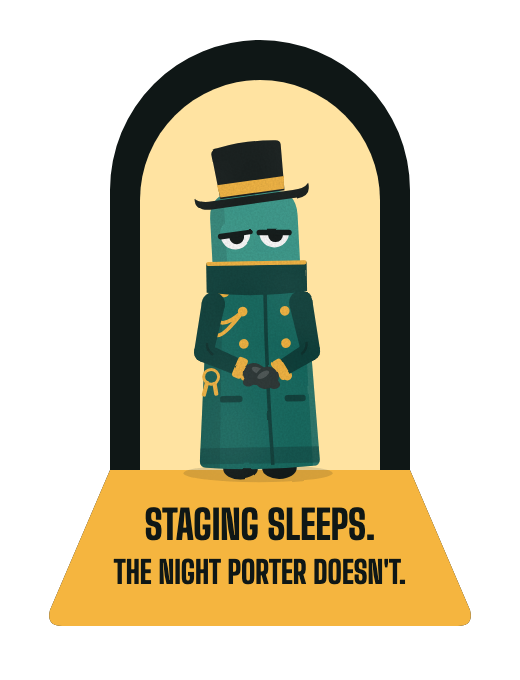
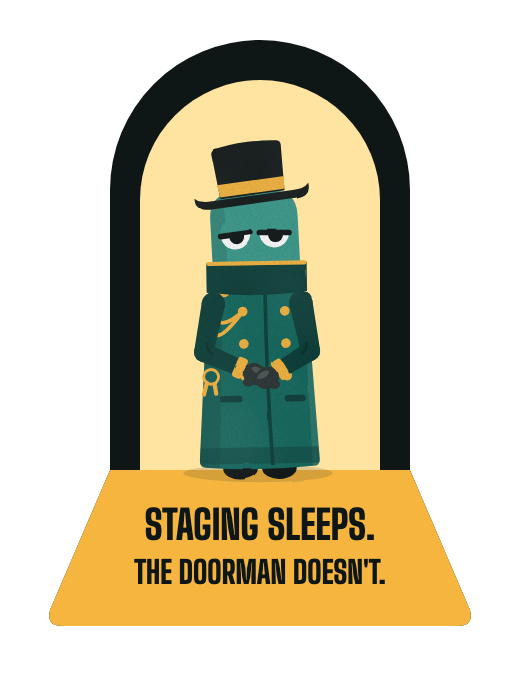
Rename the night porter to the doorman (decision 0013)
The character is now the doorman, Napwake's doorman, and one rule keeps
every caption true: when copy names him, he only holds the door or wakes
a workload on the first request; everything else Napwake does is said
as "Napwake ...", even when he's pictured.

- guidelines/night-porter.md is now guidelines/doorman.md, rewritten by
  that rule; the pose captions credit Napwake for pausing, the forecast,
  scan and the activity clock.
- illustrations/poses/porter-*.svg are now doorman-*.svg (same drawings).
- Tokens porter-* are now doorman-* in tokens.json and tokens.css.
- The sticker reads "Staging sleeps. The doorman doesn't."
- The credit line is "Doorman illustrations by Napwake, CC BY 4.0".

Changed region(s): [[0.2154, 0.8029, 0.7692, 0.8647]]

diff --git a/tokens/tokens.css b/tokens/tokens.css
@@ -49,17 +49,17 @@
   --scene-green-glow: #7fd3a0;
   --scene-label: #5e6764;
   --note-pin: #d9443a;
-  --porter-coat: var(--coat);
-  --porter-coat-deep: var(--coat-deep);
-  --porter-face: var(--face);
-  --porter-brass: var(--lamp);
-  --porter-hat: var(--hat);
-  --porter-mitten: var(--mitten);
-  --porter-mitten-line: var(--night);
-  --porter-shoe: var(--night);
-  --porter-shoe-rim: var(--night);
-  --porter-eye: #ffffff;
-  --porter-night: var(--night);
+  --doorman-coat: var(--coat);
+  --doorman-coat-deep: var(--coat-deep);
+  --doorman-face: var(--face);
+  --doorman-brass: var(--lamp);
+  --doorman-hat: var(--hat);
+  --doorman-mitten: var(--mitten);
+  --doorman-mitten-line: var(--night);
+  --doorman-shoe: var(--night);
+  --doorman-shoe-rim: var(--night);
+  --doorman-eye: #ffffff;
+  --doorman-night: var(--night);
   --prop-clipboard: #8a5a2b;
   --prop-plate-edge: #b9b4a7;
   --prop-switch: #9c978a;
@@ -141,14 +141,14 @@
     --scene-green: #4cc284;
     --scene-green-glow: #4cc284;
     --scene-label: #8c9895;
-    --porter-coat: #1e7a6e;
-    --porter-coat-deep: #12524b;
-    --porter-face: #45a898;
-    --porter-hat: #2b3735;
-    --porter-mitten: #3e4e4c;
-    --porter-mitten-line: #7a918d;
-    --porter-shoe: #2b4743;
-    --porter-shoe-rim: #4c7069;
+    --doorman-coat: #1e7a6e;
+    --doorman-coat-deep: #12524b;
+    --doorman-face: #45a898;
+    --doorman-hat: #2b3735;
+    --doorman-mitten: #3e4e4c;
+    --doorman-mitten-line: #7a918d;
+    --doorman-shoe: #2b4743;
+    --doorman-shoe-rim: #4c7069;
     --launch-floor: var(--scene-floor);
     --launch-frame: var(--scene-frame);
     --hanger-edge: #24323a;
@@ -189,14 +189,14 @@
   --scene-green: #4cc284;
   --scene-green-glow: #4cc284;
   --scene-label: #8c9895;
-  --porter-coat: #1e7a6e;
-  --porter-coat-deep: #12524b;
-  --porter-face: #45a898;
-  --porter-hat: #2b3735;
-  --porter-mitten: #3e4e4c;
-  --porter-mitten-line: #7a918d;
-  --porter-shoe: #2b4743;
-  --porter-shoe-rim: #4c7069;
+  --doorman-coat: #1e7a6e;
+  --doorman-coat-deep: #12524b;
+  --doorman-face: #45a898;
+  --doorman-hat: #2b3735;
+  --doorman-mitten: #3e4e4c;
+  --doorman-mitten-line: #7a918d;
+  --doorman-shoe: #2b4743;
+  --doorman-shoe-rim: #4c7069;
   --launch-floor: var(--scene-floor);
   --launch-frame: var(--scene-frame);
   --hanger-edge: #24323a;

diff --git a/guidelines/README.md b/guidelines/README.md
@@ -10,12 +10,12 @@ It's for platform and infrastructure engineers who run non-production environmen
 
 ## The idea
 
-Napwake is **the night porter** of your non-production cluster: he lets the rooms nobody's using sleep, holds the door for the first request, and wakes the right room. Every room is an arched door. Shut and dark is asleep; ajar with amber light is waking up; open and lit green is awake. Anyone reads it at a glance, Kubernetes or not, so every picture carries one idea in plain words.
+Napwake lets the rooms nobody's using in your non-production cluster sleep. When the first request knocks, **the doorman** holds the door and wakes the right room. Every room is an arched door. Shut and dark is asleep; ajar with amber light is waking up; open and lit green is awake. Anyone reads it at a glance, Kubernetes or not, so every picture carries one idea in plain words.
 
 Before you make anything, read the section for it:
 
 - **[The logo](logo.md):** the one logo, its approved versions, clear space, minimum sizes, misuses.
-- **[The night porter](night-porter.md):** how he's built, his eleven poses and when to use each, what he does and never does, the finish.
+- **[The doorman](doorman.md):** who he is and the one rule for every caption, how he's built, his eleven poses and when to use each, what he never does, the finish.
 - **[Using the brand](using-the-brand.md):** talks, posts, slides and community projects.
 
 ## Voice
@@ -37,7 +37,7 @@ Everything Napwake says follows six rules.
 
 > Your first request waits at the door while the workload starts. Usually that's a slow response, not an error; the docs say when it isn't. (README)
 
-> Staging sleeps. The night porter doesn't. (the sticker: true of Napwake, whose operator and doorman keep running while workloads are paused)
+> Staging sleeps. The doorman doesn't. (the sticker: literally true, since the doorman keeps running while workloads are paused)
 
 **Words.** Say "pause idle" and "sleep" and "wake": the words users use. Don't call Napwake "scale to zero" or "hibernate"; in Kubernetes those mean other things. Write "Napwake" in text, `napwake` in commands; the wordmark is lowercase. Headings in sentence case. Dates absolute.
 
@@ -46,19 +46,19 @@ Everything Napwake says follows six rules.
 | State | In pictures and pages anyone reads | In the CLI and reference docs | Its door |
 |---|---|---|---|
 | asleep | asleep | paused | shut and dark, a slate leaf, a brass knob |
-| waking | waking up | resuming | ajar, amber room light and a wedge on the floor, the porter's hand on it |
+| waking | waking up | resuming | ajar, amber room light and a wedge on the floor, the doorman's hand on it |
 | awake | awake | running | wide open, the room lit green, a green lamp over it |
 | error | needs you | needs attention | shut, a note pinned on it |
 
 - Use the plain words in scenes, captions, the waking page, launch posts and swag.
 - Use the product words in `kubectl napwake` output, reference docs, API fields and anything a user types or searches for.
 - Where both appear, plain first: "Asleep · paused".
-- The character is **the night porter**. The doorman is a real Napwake component, the Service-level proxy that holds requests; never call the porter the doorman, and never say he is a Deployment.
+- The character is **the doorman**, and he is Napwake's doorman: the real component, a Service-level proxy, that holds the first request to a paused workload, wakes it, and shows browsers the waking page until it's Ready. When copy names him, he does only that. Everything else Napwake does is said as "Napwake …", even when he's pictured: "Napwake turns off the lights in empty rooms".
 
 ## Doors as states
 
 - Every room is an arched door: round top, flat bottom, the same arch as the wordmark's counters.
-- Asleep: shut, slate (`glyph-slate`, `scene-leaf`). Waking up: ajar, the room in Lamp light (`scene-room-amber`), an amber wedge on the floor, and the only door with the porter's hand on it. Awake: wide open, the room lit green (`scene-room-green`), a green lamp over the door (`scene-green`). Needs you: shut, a note pinned on it (`note-pin`); a note, never an alarm bell, and it says what to fix.
+- Asleep: shut, slate (`glyph-slate`, `scene-leaf`). Waking up: ajar, the room in Lamp light (`scene-room-amber`), an amber wedge on the floor, and the only door with the doorman's hand on it. Awake: wide open, the room lit green (`scene-room-green`), a green lamp over the door (`scene-green`). Needs you: shut, a note pinned on it (`note-pin`); a note, never an alarm bell, and it says what to fix.
 - Use the door glyphs in [`../illustrations/doors/`](../illustrations/doors/) (`door-<state>.svg` on light, `door-<state>-dark.svg` on dark).
 - Always put the state's word beside its door. Colour is never the only signal: waking's amber outline is 1.71:1 on Paper, and awake and error are equally light.
 - His face follows the rooms he minds: resting his eyes when every room is asleep, heavy lids on a quiet night, on duty by default, wide awake only when something needs you.
@@ -66,14 +66,14 @@ Everything Napwake says follows six rules.
 
 ## Colour
 
-A night porter's coat, the light from a door, and the dark corridor.
+A doorman's coat, the light from a door, and the dark corridor.
 
-- **Coat** `coat` #14695F is the brand's teal. **Lamp** `lamp` #F5B53F is the warm light. **Night** `night` #0F1716 and **Paper** `paper` #F8F8F5 are dark and light. **Coat deep** `coat-deep`, **Face** `face`, **Hat** `hat` and **Mitten** `mitten` belong to the porter.
+- **Coat** `coat` #14695F is the brand's teal. **Lamp** `lamp` #F5B53F is the warm light. **Night** `night` #0F1716 and **Paper** `paper` #F8F8F5 are dark and light. **Coat deep** `coat-deep`, **Face** `face`, **Hat** `hat` and **Mitten** `mitten` belong to the doorman.
 - Pages: `bg` for the page, `surface` for raised cards, `text` for copy, `muted` for secondary text, `line` for hairlines. Set body copy in `text` on `bg` or `surface`.
 - Actions: `action` (Coat on light, Lamp on dark) for links, buttons and the focus ring. Text on an action fill is `on-action` (Paper on Coat, Night on Lamp), never plain white.
 - Lamp is a fill on light, never text (1.71:1 on Paper). Amber text on light is `accent-text` #8A5A00.
 - State words take `asleep`, `waking`, `awake` and `error`. Use them for states only, never for decoration.
-- The porter has his own tokens (`porter-*`), lighter in dark so he reads on Night. Scenes use `scene-*`; door glyphs use `glyph-*`.
+- The doorman has his own tokens (`doorman-*`), lighter in dark so he reads on Night. Scenes use `scene-*`; door glyphs use `glyph-*`.
 - Every token in [`../tokens/tokens.json`](../tokens/tokens.json) has a note that says where it goes and its contrast on the grounds it sits on; [`tokens.css`](../tokens/tokens.css) has them as CSS variables, light and dark. Three pairs miss 4.5:1 and are flagged in their notes: `faint` on light, state words on the light scene floor, and two small labels on printed swag.
 - No colours outside `tokens.json`. Never a gradient, and never purple or blue-to-purple.
 
@@ -94,10 +94,10 @@ A night porter's coat, the light from a door, and the dark corridor.
 
 ## Illustration
 
-- Corridors, lobbies and doorways at night: the porter, doors, a floor. Props only when the job needs them: a list, a clipboard, a switch, a watch, a note.
+- Corridors, lobbies and doorways at night: the doorman, doors, a floor. Props only when the job needs them: a list, a clipboard, a switch, a watch, a note.
 - One idea per drawing, captioned in plain words. One true joke at most.
 - Light comes from doors. The far side of the coat falls into shade; his shadow falls away from the door.
-- Illustrations get the print finish: a slight wobble on every edge and a grain inside the fills ([night-porter.md](night-porter.md#the-finish) has the filter). Never on the logo, the favicon, door glyphs or UI icons.
+- Illustrations get the print finish: a slight wobble on every edge and a grain inside the fills ([doorman.md](doorman.md#the-finish) has the filter). Never on the logo, the favicon, door glyphs or UI icons.
 - No coins, bins, clouds, moons or Zzz, and nothing being thrown out: Napwake never deletes anything.
 - Illustrations go on pages, cards, empty states and release notes, never inside documentation steps.
 
@@ -122,13 +122,13 @@ A night porter's coat, the light from a door, and the dark corridor.
 - Never colour alone: every state carries its word and its door's shape, and the terminal adds a glyph and bold.
 - Keyboard focus is `focus-ring`: a 2 px gap in the page colour, then 2 px of `action` (6.14:1 on light, 10.02:1 on dark).
 - Every surface ships light and dark (logos, glyphs, icons, cards, the docs, the waking page) and follows `prefers-color-scheme`.
-- Alt text says what the picture shows, in plain words: "The night porter holds the door of a waking room; the rooms on either side are asleep or awake."
+- Alt text says what the picture shows, in plain words, by the doorman's rule: "The doorman holds the door of a waking room; the rooms on either side are asleep or awake." Any other job is Napwake's, even with him in the picture: "Napwake turns off the lights in staging, which nobody has used for an hour."
 
 ## The files
 
 | Where | What | Licence |
 |---|---|---|
 | [`../logo/`](../logo/) | The logo, wordmark, mark, avatar and favicons | [TRADEMARKS.md](../TRADEMARKS.md) |
-| [`../illustrations/`](../illustrations/) | The porter's poses, door glyphs, UI icons, scenes and a sticker | [CC BY 4.0](../illustrations/LICENSE) |
+| [`../illustrations/`](../illustrations/) | The doorman's poses, door glyphs, UI icons, scenes and a sticker | [CC BY 4.0](../illustrations/LICENSE) |
 | [`../tokens/`](../tokens/) | Every colour, type style, spacing step, radius, shadow and timing, as JSON and as CSS | CC BY 4.0, like the illustrations |
 | [`logo-rules/`](logo-rules/) | Clear space, construction and misuse drawings | [TRADEMARKS.md](../TRADEMARKS.md) |

diff --git a/guidelines/doorman.md b/guidelines/doorman.md
@@ -1,0 +1,102 @@
+# The doorman
+
+He is **Napwake's doorman**. In the product, the doorman is a real component: it holds the first request to a paused workload, wakes the workload, and shows browsers the waking page until it's Ready. The character is that doorman, drawn as a person. Copy calls him **the doorman**. He has no name, like the Go gopher.
+
+**One rule keeps every caption true: when copy names the doorman, he only holds the door or wakes a workload on the first request.** Everything else Napwake does (pausing, the forecast, scan, dry-run, the activity clock, conditions) is said as "Napwake …", even when he's pictured: "Napwake turns off the lights in empty rooms", never "the doorman turns off the lights". He is never another component.
+
+## Personality: dependable, dry, unflappable
+
+- **Dependable.** Always at the door. Not a guard: he never blocks, inspects or arrests anyone, and never stands in front of a door that isn't his.
+- **Dry.** Half-lidded, one-line answers. Not cute: no mouth, no blush, no sparkles, no baby proportions.
+- **Unflappable.** He's seen every night shift. Not lazy: he rests his eyes upright at his post, never asleep on the floor.
+- **Not magic.** No wands, no sparkles, no white gloves.
+
+## Every drawing is one thing Napwake does
+
+Every drawing shows one thing Napwake really does. Only the door is the doorman's job, so only its caption names him; the others say what Napwake does.
+
+| The drawing | Caption it as | What Napwake does |
+|---|---|---|
+| Holding a door ajar, amber light on the floor | "The doorman holds the door while staging wakes." | Wake on request: the doorman holds the request, or shows browsers the waking page, until the workload is Ready. |
+| A hand on the light switch of an empty room | "Napwake turns off the lights in empty rooms." | Pause: after `idleAfter` with no activity, the workload is scaled to zero. Nothing in the room is thrown out. |
+| Reading the morning list | "Napwake wakes rooms before the team arrives." | `autoResume`: the forecast wakes workloads 15 minutes before a busy hour. |
+| Walking the corridor with a clipboard | "Napwake checks which rooms are empty." | `kubectl napwake scan`, with nothing installed, and dry-run. |
+| A pocket watch in his hand | "Napwake counts how long a room has been idle." | The activity clock and `idleAfter`. |
+| A note pinned on a door | "Napwake pins a note: something needs you." | A condition under "Needs attention" in `kubectl napwake status`. |
+
+**He never** blocks a door, holds money, bins, crushes or erases anything (Napwake never deletes a workload or its data), carries a badge or a weapon, or wears a pillbox hat or a bow tie. He faces front, left or right; never from behind, never lying down. No coins in his hands: dark rooms free what they requested, and the node autoscaler turns that into a smaller bill.
+
+## The eleven poses
+
+Each pose is a real job or a screen Napwake has to fill. The files are [`../illustrations/poses/doorman-<pose>.svg`](../illustrations/poses/): 240 × 262, light palette, flat (add the finish when you place one in an illustration). Caption each in plain words, by the rule above.
+
+| File | Pose | Use it for |
+|---|---|---|
+| `doorman-duty` | On duty | Napwake, running. The default: about pages, the sticker, the awake door hanger. |
+| `doorman-door` | Holds the door | The doorman waking a room when someone knocks: the waking page, the README header, the launch card, the docs hero. The only pose at a waking door, and the only one whose caption gives him the job. |
+| `doorman-lights` | Lights out | Napwake putting an empty room to sleep: pausing. |
+| `doorman-list` | The morning list | Napwake waking rooms before the team arrives: `autoResume`, the forecast. |
+| `doorman-rounds` | Does the rounds | Napwake checking which rooms are empty: `scan`, dry-run. |
+| `doorman-watch` | Checks his watch | How long a room has been idle, as Napwake counts it: `idleAfter`, the activity clock. |
+| `doorman-note` | Pins a note | Something needs you: errors, conditions, "Needs attention". |
+| `doorman-rest` | Resting his eyes | Everything is asleep: empty states, the asleep door hanger. |
+| `doorman-shrug` | No room by that name | Page not found. |
+| `doorman-point` | This way | Getting started, next steps. |
+| `doorman-tip` | Tips his hat | Thanks, and what's new: release notes, a launch thank-you. |
+
+A new pose shows a new real job. If you draw one, keep the construction below exactly, so he stays the same doorman.
+
+## Expressions
+
+His face follows the rooms he minds. Expression lives in the lids, their tilt, where he looks, his lean and his arms: **no mouth and no eyebrows, ever.**
+
+| Face | Lids (0 open, 1 shut) | When | Poses |
+|---|---|---|---|
+| Resting his eyes | 1 | Every room asleep; empty states | rest |
+| Heavy lids | about 0.6 | A quiet night, a few rooms awake | list, lights, watch |
+| On duty | about 0.5 | His default | duty, door, rounds, point, tip |
+| Wide awake | 0.15 to 0.2 | Something needs you; errors only | note |
+
+## Construction
+
+1. **One door-shaped silhouette:** a face zone, a standing collar a third of the way down, a greatcoat to the floor. Only the toes of his shoes show.
+2. **The face zone** is 54 wide, a step lighter than the coat (`doorman-face`), with rounded top corners. Eyes: radius 0.17 of the face's width, centres 0.44 apart (9.2 and 24 on the figure, 7.5 and 19.4 on the symbol). The lids cut them with a Night bar that overshoots by 18%. Lids tilt and pupils move in every pose.
+3. **The collar** is Coat deep with a Lamp piping line. His arms root below it, at the shoulders.
+4. **The coat** is A-line, 62 at the shoulders and 74 at the hem, its sides curving with the pose. Two rows of three brass buttons, a braid looped from his right shoulder, pocket flaps, a darker hem band, and the doorman's keys on a brass ring at his hip.
+5. **The hat** is a short black top hat, a London hotel doorman's, with a Lamp band and a flat brim 1.3 times the face's width, tilted about 5°. Black, never green: a green top hat with a gold band is a leprechaun's.
+6. **Arms and mittens:** sleeves taper from shoulder to wrist and bend at the elbow, with a crease inside the bend. Dark mittens with a thumb (white gloves under a top hat read as a magician), a Lamp cuff at each wrist. Four kinds: relaxed, open, gripping, pointing.
+7. **Turn:** in three-quarter poses the eyes slide toward where he faces, the far eye narrows, a side plane darkens on the coat, face and hat, and the far arm goes behind his body.
+8. **Weight:** a lean, a curve in the coat, a lifted heel, raised shoulders for a shrug. He leans 6 to 9° into whatever he's doing and never more: he's unflappable.
+
+## One idea per scene
+
+- One idea per picture, captioned in plain words (asleep, waking up, awake), readable without knowing Kubernetes.
+- He stands beside the waking door with his hand on its leaf; he never stands in a doorway or in front of a door.
+- Light comes from the doors. The far side of his coat falls into shade; his shadow falls away from the door.
+- One door per workload, each in its real state.
+
+## In the dark
+
+On Night and in dark scenes, draw him in the dark palette, so he reads: `doorman-coat` #1E7A6E, `doorman-coat-deep` #12524B, `doorman-face` #45A898, `doorman-hat` #2B3735, `doorman-mitten` #3E4E4C, `doorman-mitten-line` #7A918D, `doorman-shoe` #2B4743 with a #4C7069 rim. Lamp, Night and the whites of his eyes don't change. The pose files are drawn in the light palette.
+
+## The finish
+
+Illustrations get a print finish: a slight wobble on every edge and a grain inside the fills, so the doorman looks printed, not vector-flat. Wobble 1.8 and grain 0.16 by default; scenes use 1.4 and 0.13, cards and the brand book 1.3 and 0.13 to 0.14. A scene's wall gets its own fine grain at opacity `grain-light` (.07) or `grain-dark` (.22).
+
+**Never** put the finish on the logo, the favicon, door glyphs or UI icons.
+
+```svg
+<filter id="finish" x="-5%" y="-5%" width="110%" height="110%" color-interpolation-filters="sRGB">
+  <feTurbulence type="fractalNoise" baseFrequency=".045" numOctaves="2" seed="3" result="w"/>
+  <feDisplacementMap in="SourceGraphic" in2="w" scale="1.8" xChannelSelector="R" yChannelSelector="G" result="d"/>
+  <feTurbulence type="fractalNoise" baseFrequency=".85" numOctaves="2" seed="9" result="n"/>
+  <feColorMatrix in="n" values="0 0 0 0 0  0 0 0 0 0  0 0 0 0 0  0 0 0 0.16 0" result="na"/>
+  <feComposite in="na" in2="d" operator="in" result="g"/>
+  <feTurbulence type="fractalNoise" baseFrequency=".018" numOctaves="2" seed="21" result="m"/>
+  <feColorMatrix in="m" values="0 0 0 0 1  0 0 0 0 1  0 0 0 0 1  0 0 0 .09 -.01" result="ma"/>
+  <feComposite in="ma" in2="d" operator="in" result="ink"/>
+  <feMerge><feMergeNode in="d"/><feMergeNode in="ink"/><feMergeNode in="g"/></feMerge>
+</filter>
+```
+
+Apply it to the group that holds the doorman and the doors: `<g filter="url(#finish)">…</g>`.

diff --git a/guidelines/logo.md b/guidelines/logo.md
@@ -1,6 +1,6 @@
 # The logo
 
-**There is one logo, and it is always the same drawing in the same colours.** It is the porter's head and shoulders under his top hat (the symbol) beside the drawn wordmark, `napwake`. A small set of approved files covers every place it goes; nothing else is the logo. Never redraw it, re-colour it, re-pose it or retype it. The porter's poses are illustrations, never the logo.
+**There is one logo, and it is always the same drawing in the same colours.** It is the doorman's head and shoulders under his top hat (the symbol) beside the drawn wordmark, `napwake`. A small set of approved files covers every place it goes; nothing else is the logo. Never redraw it, re-colour it, re-pose it or retype it. The doorman's poses are illustrations, never the logo.
 
 ## The approved versions
 
@@ -13,7 +13,7 @@ Every file is in [`../logo/`](../logo/). A `-dark` file is for dark grounds.
 | **The mark alone** (symbol) | `symbol.svg` | `symbol-dark.svg` | Small spaces and places that already say the name: icons from 32 px, the avatar. |
 | **One colour** | `lockup-horizontal-mono-ink.svg`, `lockup-stacked-mono-ink.svg`, `symbol-mono-ink.svg` (Night) | the same names in `-mono-paper` (Paper) | Wherever full colour can't print or would clash: photos, coloured grounds, one-colour print, embossing. |
 | One colour on Coat | | `symbol-on-coat.svg` | On the brand's teal, Coat: Paper, with the eyes cut in Coat. |
-| Wordmark alone | `wordmark.svg` | `wordmark-dark.svg` | Only where the porter is already in the picture: the README header, the social preview, the launch card. |
+| Wordmark alone | `wordmark.svg` | `wordmark-dark.svg` | Only where the doorman is already in the picture: the README header, the social preview, the launch card. |
 | Avatar | `avatar-500.png` (on Lamp) | `avatar-500-dark.png` (on Night) | The GitHub organization avatar and other circle crops. Everything that matters sits inside the inscribed circle. SVG sources beside them. |
 | Favicon | `favicon-16.svg` | `favicon-16-dark.svg` | Browser tabs: the 16-pixel cut, drawn on whole pixels, not scaled. `favicon.svg` holds both halves and switches with `prefers-color-scheme`. `favicon-32.svg` is the symbol for 32 px. |
 | One-colour small mark | `mark-24.svg` | | 24 px and below in one colour: the waking page's footer, the scan report and status page. |
@@ -26,7 +26,7 @@ Every file is in [`../logo/`](../logo/). A `-dark` file is for dark grounds.
 
 ## Clear space
 
-Keep clear, on every side of a lockup, the height of the porter's hat at that size: about a third of the symbol's height. Nothing else, text included, goes inside it. [`logo-rules/clear-space.svg`](logo-rules/clear-space.svg) shows it.
+Keep clear, on every side of a lockup, the height of the doorman's hat at that size: about a third of the symbol's height. Nothing else, text included, goes inside it. [`logo-rules/clear-space.svg`](logo-rules/clear-space.svg) shows it.
 
 ## Minimum sizes
 
@@ -64,4 +64,4 @@ The misuse files in [`logo-rules/`](logo-rules/) show what not to do. Never use 
 
 ## Marks and licences
 
-"Napwake", the logo and wordmark, and the porter's head as used in the logo are the project's marks, owned by Tobi Okedeji and governed by [TRADEMARKS.md](../TRADEMARKS.md): use them unchanged to refer to Napwake, never as the name or logo of something else. The porter's illustrations (poses, door scenes, stickers) are licensed [CC BY 4.0](../illustrations/LICENSE), as the Go gopher is, so anyone can use them with the credit "Night porter illustrations by Napwake, CC BY 4.0".
+"Napwake", the logo and wordmark, and the doorman's head as used in the logo are the project's marks, owned by Tobi Okedeji and governed by [TRADEMARKS.md](../TRADEMARKS.md): use them unchanged to refer to Napwake, never as the name or logo of something else. The doorman illustrations (poses, door scenes, stickers) are licensed [CC BY 4.0](../illustrations/LICENSE), as the Go gopher is, so anyone can use them with the credit "Doorman illustrations by Napwake, CC BY 4.0".

diff --git a/guidelines/using-the-brand.md b/guidelines/using-the-brand.md
@@ -1,6 +1,6 @@
 # Using the brand
 
-For talks, posts, videos, slides and projects that work with Napwake. The [trademark policy](../TRADEMARKS.md) covers the name and logo; the [illustration licence](../illustrations/LICENSE) covers the porter.
+For talks, posts, videos, slides and projects that work with Napwake. The [trademark policy](../TRADEMARKS.md) covers the name and logo; the [illustration licence](../illustrations/LICENSE) covers the doorman illustrations.
 
 ## The words
 
@@ -15,15 +15,15 @@ Quote them as they are. If you write your own, the six voice rules in the [guide
 
 - The horizontal or stacked logo, on Paper or Night, from [`../logo/`](../logo/).
 - Headlines in Big Shoulders Display ExtraBold, body in Atkinson Hyperlegible Next, commands in Atkinson Hyperlegible Mono, all free on Google Fonts.
-- One idea per slide. Illustrations from the [poses](../illustrations/poses/) and [scenes](../illustrations/scenes/), with the [finish](night-porter.md#the-finish).
+- One idea per slide. Illustrations from the [poses](../illustrations/poses/) and [scenes](../illustrations/scenes/), with the [finish](doorman.md#the-finish).
 - Show real `kubectl napwake` output: trim columns if you need to, never invent them.
 
 ## Posts, articles and videos
 
-- Credit the illustrations: "Night porter illustrations by Napwake, CC BY 4.0", linked to https://github.com/napwake/brand.
+- Credit the illustrations: "Doorman illustrations by Napwake, CC BY 4.0", linked to https://github.com/napwake/brand.
 - "Works with Napwake" and "for Napwake" are fine for your project; a name or logo that looks like Napwake's isn't.
 - When you compare Napwake with other tools, say plainly where another fits better. That's how we write about them too.
 
 ## Stickers
 
-[`../illustrations/stickers/sticker.svg`](../illustrations/stickers/sticker.svg) is a die-cut sticker: a lit doorway and "Staging sleeps. The night porter doesn't." Print it for a meetup; credit isn't needed on the sticker itself.
+[`../illustrations/stickers/sticker.svg`](../illustrations/stickers/sticker.svg) is a die-cut sticker: a lit doorway and "Staging sleeps. The doorman doesn't." Print it for a meetup; credit isn't needed on the sticker itself.

diff --git a/README.md b/README.md
@@ -1,17 +1,17 @@
 # Napwake brand
 
-The Napwake logo, the night porter, the brand guidelines, and what you need to show Napwake in a talk, a post or a slide.
+The Napwake logo, the doorman, the brand guidelines, and what you need to show Napwake in a talk, a post or a slide.
 
-![The Napwake logo in its versions, the door states, and the night porter's poses](preview.png)
+![The Napwake logo in its versions, the door states, and the doorman's poses](preview.png)
 
 | Folder | What | How you may use it |
 |---|---|---|
 | [`logo/`](logo/) | The Napwake logo, wordmark, mark and avatar, light, dark and one-colour | Unchanged, to refer to Napwake. See [TRADEMARKS.md](TRADEMARKS.md) |
-| [`illustrations/`](illustrations/) | The night porter's poses, the door glyphs, six UI icons, scenes and a sticker | Freely, even commercially, with credit, under [CC BY 4.0](illustrations/LICENSE) |
-| [`guidelines/`](guidelines/README.md) | The brand book: the idea, voice, the logo, the night porter, colour, type, motion, and [using the brand](guidelines/using-the-brand.md) | Read it before you make anything |
+| [`illustrations/`](illustrations/) | The doorman's poses, the door glyphs, six UI icons, scenes and a sticker | Freely, even commercially, with credit, under [CC BY 4.0](illustrations/LICENSE) |
+| [`guidelines/`](guidelines/README.md) | The brand book: the idea, voice, the logo, the doorman, colour, type, motion, and [using the brand](guidelines/using-the-brand.md) | Read it before you make anything |
 | [`tokens/`](tokens/) | Every colour, light and dark, with type, spacing, radius, shadow and timing, as `tokens.json` and `tokens.css` | Freely, under CC BY 4.0 like the illustrations |
 
-**Credit line for the illustrations:** "Night porter illustrations by Napwake, CC BY 4.0", linked to this repository.
+**Credit line for the illustrations:** "Doorman illustrations by Napwake, CC BY 4.0", linked to this repository.
 
 **The doors:** closed and dark is asleep, held ajar with amber light is waking up, open and lit green is awake.
 

diff --git a/illustrations/README.md b/illustrations/README.md
@@ -1,7 +1,7 @@
-# The night porter
+# The doorman
 
-Napwake's night porter: his poses (`poses/`), the door glyphs (`doors/`: closed and dark is asleep, held ajar with amber light is waking up, open and lit green is awake, a pinned note is needs you), six UI icons (`icons/`), scenes (`scenes/`) and a sticker (`stickers/`). How to use each: [the guidelines](../guidelines/night-porter.md).
+Napwake's doorman: his poses (`poses/`), the door glyphs (`doors/`: closed and dark is asleep, held ajar with amber light is waking up, open and lit green is awake, a pinned note is needs you), six UI icons (`icons/`), scenes (`scenes/`) and a sticker (`stickers/`). How to use each: [the guidelines](../guidelines/doorman.md).
 
-Licensed [CC BY 4.0](LICENSE): use them anywhere, even commercially, and change them, as long as you give credit: "Night porter illustrations by Napwake, CC BY 4.0", linked to https://github.com/napwake/brand.
+Licensed [CC BY 4.0](LICENSE): use them anywhere, even commercially, and change them, as long as you give credit: "Doorman illustrations by Napwake, CC BY 4.0", linked to https://github.com/napwake/brand.
 
-The porter's head as used in the Napwake logo is part of the logo, in [`../logo/`](../logo/), and follows [TRADEMARKS.md](../TRADEMARKS.md) instead.
+The doorman's head as used in the Napwake logo is part of the logo, in [`../logo/`](../logo/), and follows [TRADEMARKS.md](../TRADEMARKS.md) instead.

diff --git a/logo/README.md b/logo/README.md
@@ -15,7 +15,7 @@ One logo, always drawn the same. Use these files unchanged, under [TRADEMARKS.md
 
 The plain files are for light backgrounds, `-dark` for dark ones.
 
-**Clear space:** on every side, the height of the porter's hat at that size, about a third of the symbol's height. Nothing else goes inside it.
+**Clear space:** on every side, the height of the doorman's hat at that size, about a third of the symbol's height. Nothing else goes inside it.
 
 **Smallest sizes:** horizontal lockup 100 px wide, stacked lockup 64 px wide, symbol 24 px.
 
@@ -23,5 +23,5 @@ The plain files are for light backgrounds, `-dark` for dark ones.
 - stretch, squash, rotate or outline it, or add a shadow or a gradient;
 - recolour it outside the palette; on a photo or a busy background, use a one-colour version;
 - set "napwake" in a font in place of the drawn wordmark;
-- use one of the porter's poses, another expression or another hat as the logo;
+- use one of the doorman's poses, another expression or another hat as the logo;
 - give him a mouth, a smile or a bow tie.

diff --git a/TRADEMARKS.md b/TRADEMARKS.md
@@ -1,6 +1,6 @@
 # Napwake trademarks
 
-"Napwake", the Napwake logo and wordmark, and the night porter's head as used in the logo are trademarks of Tobi Okedeji. This page says how you may use them. It doesn't change the code's Apache 2.0 licence (which, in section 6, grants no trademark rights) or the illustrations' CC BY 4.0 licence (which, in section 2(b)(2), doesn't either).
+"Napwake", the Napwake logo and wordmark, and the doorman's head as used in the logo are trademarks of Tobi Okedeji. This page says how you may use them. It doesn't change the code's Apache 2.0 licence (which, in section 6, grants no trademark rights) or the illustrations' CC BY 4.0 licence (which, in section 2(b)(2), doesn't either).
 
 ## You may
 - Use the name to talk about Napwake: in articles, talks, tutorials, comparisons and videos.
